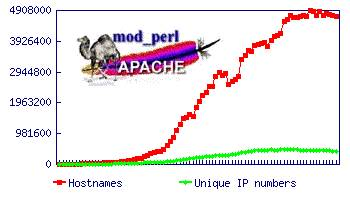
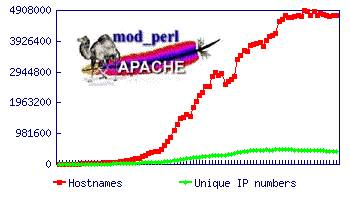
stats update PR: Obtained from: Submitted by: Reviewed by:
git-svn-id: https://svn.apache.org/repos/asf/perl/modperl/docs/trunk@67921 13f79535-47bb-0310-9956-ffa450edef68

Changed region(s): [[0.1714, 0.03, 0.9714, 0.84]]

diff --git a/src/outstanding/stats/securityspace.html b/src/outstanding/stats/securityspace.html
@@ -7,12 +7,12 @@
 <body bgcolor="#ffffff">
 
 <p> SecuritySpace provides an <a
-href="http://www.securityspace.com/s_survey/data/man.200407/apachemods.html?mod=cGVybA==">Apache
+href="http://www.securityspace.com/s_survey/data/man.200410/apachemods.html?mod=cGVybA==">Apache
 Module Report on mod_perl</a> comprising statistics and a graph based
 on the data collected by <a
 href="http://www.securityspace.com/">www.securityspace.com</a>. They
 also feature <a
-href="http://www.securityspace.com/s_survey/data/man.200407/apachemods.html">a
+href="http://www.securityspace.com/s_survey/data/man.200410/apachemods.html">a
 comparison</a> between all the Apache modules they survey.  </p>
 
 </body>

diff --git a/src/outstanding/stats/netcraft.html b/src/outstanding/stats/netcraft.html
@@ -31,6 +31,8 @@ http://www.netcraft.com/survey/Reports/200206/mod_perl.txt till July
 
 <table cellpadding="3" border="1" cellspacing="0">
 <tr><th>Survey</th><th>Hostnames</th><th>Unique IP Addresses</th></tr>
+<tr><td> September 2004 </td><td>4735563</td><td>409956</td></tr>
+<tr><td> August 2004    </td><td>4742739</td><td>416808</td></tr>
 <tr><td> July 2004      </td><td>4717106</td><td>421360</td></tr>
 <tr><td> June 2004      </td><td>4751722</td><td>427421</td></tr>
 <tr><td> May 2004       </td><td>4767652</td><td>431059</td></tr>
